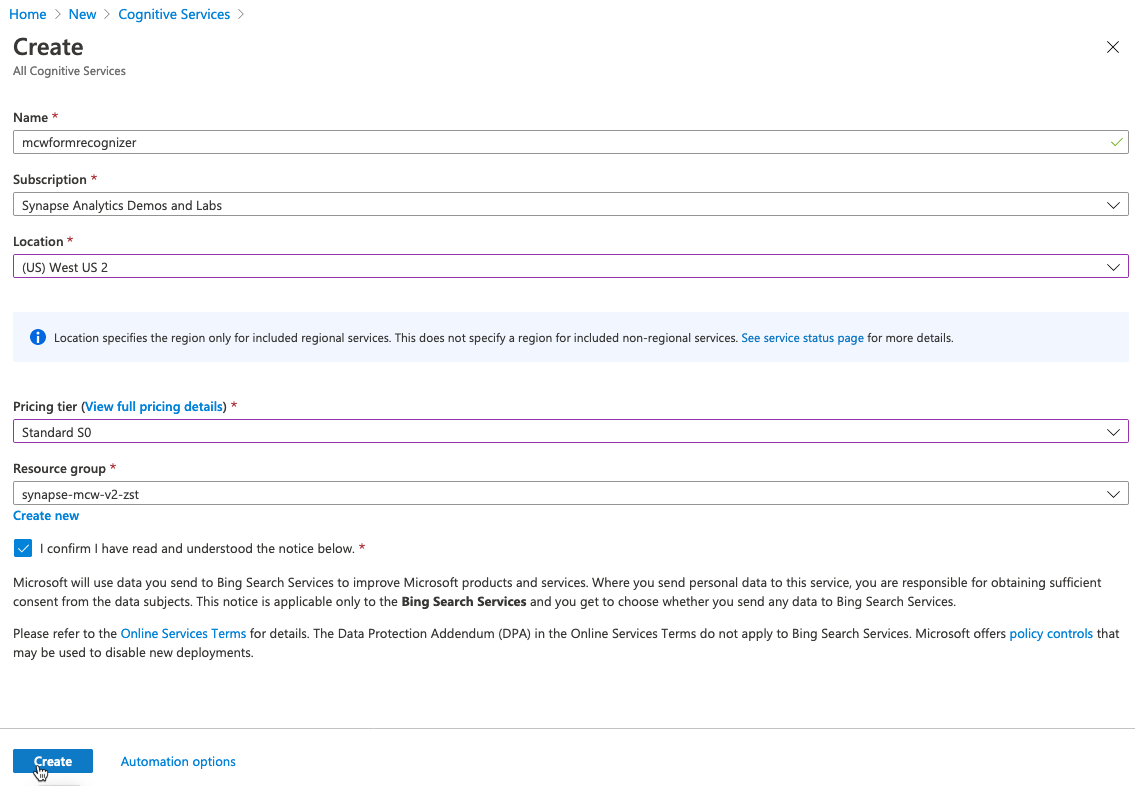
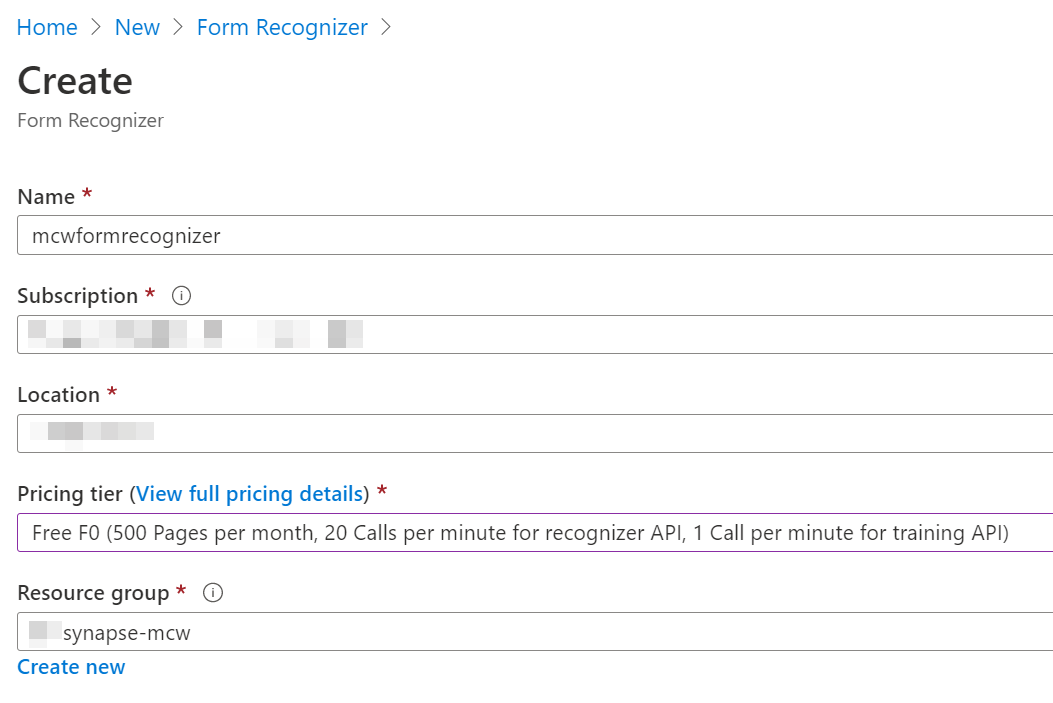
more work in progress

diff --git a/Hands-on lab/artifacts/pocformreader.py b/Hands-on lab/artifacts/pocformreader.py
@@ -4,9 +4,9 @@ import time
 from requests import get, post
 
 # Endpoint URL
-endpoint = r"https://wwiformsreader.cognitiveservices.azure.com/"
+endpoint = r"https://mcwformrecognizer.cognitiveservices.azure.com/"
 post_url = endpoint + r"/formrecognizer/v2.0/custom/models"
-source = r"https://mcwsynapseforms.blob.core.windows.net/invoices?sv=2019-10-10&ss=b&srt=co&sp=rl&se=2021-01-01T06:25:50Z&st=2020-06-23T21:25:50Z&spr=https&sig=6ksjolmm3XokVca3aiQ9tVHhZXySratGKB9dWxoT2ng%3D"
+source = r"https://asastorecep321.blob.core.windows.net/?sv=2019-12-12&ss=bfqt&srt=sco&sp=rwdlacupx&se=2020-08-09T02:35:49Z&st=2020-07-29T18:35:49Z&spr=https&sig=QrLduUGU0NFfnkmoNJu2Gs7dZ0Pr0M56VWygUHkrX3I%3D"
 prefix = "Train"
 includeSubFolders = False
 useLabelFile = False
@@ -14,7 +14,7 @@ useLabelFile = False
 headers = {
     # Request headers
     'Content-Type': 'application/json',
-    'Ocp-Apim-Subscription-Key': '8a5370dee48a42038bcd6dfdca49642b',
+    'Ocp-Apim-Subscription-Key': 'bc0c8f4327e64124862d915d9187d277',
 }
 
 body =     {

diff --git a/Hands-on lab/HOL step-by step - Azure Synapse Analytics and AI.md b/Hands-on lab/HOL step-by step - Azure Synapse Analytics and AI.md
@@ -51,7 +51,7 @@ Microsoft and the trademarks listed at <https://www.microsoft.com/en-us/legal/in
     - [Task 2: Query JSON data](#task-2-query-json-data)
   - [Exercise 5: Synapse Pipelines & Cognitive Search](#exercise-5-synapse-pipelines--cognitive-search)
     - [Task 1: Create the invoice storage container](#task-1-create-the-invoice-storage-container)
-    - [Task 2: Create and train Azure Forms recognizer model and Cognitive Search](#task-2-create-and-train-azure-forms-recognizer-model-and-cognitive-search)
+    - [Task 2: Create and train an Azure Forms recognizer model and Cognitive Search](#task-2-create-and-train-an-azure-forms-recognizer-model-and-cognitive-search)
     - [Task 3: Configure a skillset with Form Recognizer](#task-3-configure-a-skillset-with-form-recognizer)
     - [Task 4: Create the Synapse Pipeline](#task-4-create-the-synapse-pipeline)
   - [Exercise 6: Security](#exercise-6-security)
@@ -907,13 +907,13 @@ When you query Parquet files using Synapse SQL Serverless, you can explore the d
     from pyspark.sql.types import *
     from pyspark.sql.functions import *
 
-    profitByDateProduct = (data_path.groupBy("TransactionDate","ProductId")
-        .agg(
-            round(sum("ProfitAmount",2).alias("(sum)Profit"),
-            round(avg("ProfitAmount",2).alias("(avg)Profit"),
-            round(avg("Quantity"), 4).alias("(avg)Quantity"),
-            sum("Quantity").alias("(sum)Quantity"))
-        .orderBy("TransactionDate", "ProductId"))
+    profitByDateProduct = (data_path.groupBy("TransactionDate", "ProductId")
+    .agg(
+    round(sum("ProfitAmount"),2).alias("(sum)Profit"),
+    round(avg("ProfitAmount"),2).alias("(avg)Profit"),
+    sum("Quantity").alias("(sum)Quantity")
+    ).orderBy("TransactionDate", "ProductId")
+    )
     profitByDateProduct.show(100)
     ```
 
@@ -1086,15 +1086,15 @@ In this exercise you will create a Synapse Pipeline that will orchestrate updati
 
     ![The SAS form is shown with the shared access signature blob service SAS URL highlighted.](media/ex5-task1a-013.png "The SAS URL")
 
-### Task 2: Create and train Azure Forms recognizer model and Cognitive Search
+### Task 2: Create and train an Azure Forms recognizer model and Cognitive Search
 
-1. Browse to your Azure Portal, select **+Create a resource**, then search for and select **Cognitive Services** from the search results.
+1. Browse to your Azure Portal homepage, select **+ Create a resource**, then search for and select **Form Recognizer** from the search results.
 
-    ![The New resource screen is shown with Cognitive Services entered into the search text boxes and selected from the search results.](media/ex5-task2a-01.png "New resource search form")
+    ![The New resource screen is shown with Form Recognizer entered into the search text boxes and selected from the search results.](media/ex5-task2a-01.png "New resource search form")
 
 2. Select **Create**.
 
-    ![The Cognitive Services overview form is displayed with the Create button highlighted.](media/ex5-task2a-02.png "The Cognitive Services overview form")
+    ![The Form Recognizer overview screen is displayed with the Create button highlighted.](media/ex5-task2a-02.png "The Form Recognizer overview form")
 
 3. Enter the following configuration settings, then select **Create**:
 
@@ -1106,7 +1106,7 @@ In this exercise you will create a Synapse Pipeline that will orchestrate updati
     | Pricing | Select **Free F0**. |
     | Confirmation checkbox | Checked. |
   
-    ![The Cognitive Services configuration screen is displayed populated with the preceding values.](media/ex5-task2a-03.png "Cognitive services configuration screen")
+    ![The Form Recognizer configuration screen is displayed populated with the preceding values.](media/ex5-task2a-03.png "Form Recognizer configuration screen")
 
 4. Wait for the service to provision then navigate to the resource.
 
@@ -1118,7 +1118,7 @@ In this exercise you will create a Synapse Pipeline that will orchestrate updati
 
     ![The Keys and Endpoint screen is shown with KEY 1 and ENDPOINT values highlighted.](media/ex5-task2a-05.png "The Keys and Endpoint screen")
 
-7. Browse to your Azure Portal homepage, select **+Create a new resource**, then search for and create a new instance of **Azure Cognitive Search**.
+7. Browse to your Azure Portal homepage, select **+ Create a new resource**, then search for and create a new instance of **Azure Cognitive Search**.
 
     ![The Azure Cognitive Search overview screen is displayed.](media/ex5-task1-006.png "Azure Cognititve Search Overview screen")
 
@@ -1136,9 +1136,9 @@ In this exercise you will create a Synapse Pipeline that will orchestrate updati
 
 12. Open Visual Studio Code.
 
-13. Open the file **/artifacts/pocofrmreader.py**.
+13. From the **File** menu, select **Open file** then choose to open **Hands-on lab/artifacts/pocformreader.py**.
 
-14. Update Lines 7, 9, and 17 with the appropriate values indicated below:
+14. Update Lines 7, 9, and 13 with the appropriate values indicated below:
 
     - Line 7: The endpoint of Azure Cognitive Services.
 
@@ -1146,7 +1146,7 @@ In this exercise you will create a Synapse Pipeline that will orchestrate updati
 
     - Line 13: The key for your Azure Cognitive Service endpoint.
 
-    ![The source code listing of pocofrmreader.py is displayed with the lines mentioned above highlighted.](media/ex5-task2a-06.png "The source listing of pocofrmreader.py")
+    ![The source code listing of pocformreader.py is displayed with the lines mentioned above highlighted.](media/ex5-task2a-06.png "The source listing of pocofrmreader.py")
 
 15. Save the file.
 
@@ -1161,6 +1161,8 @@ In this exercise you will create a Synapse Pipeline that will orchestrate updati
 18. When it completes, you should see an output similar to what is seen in the screenshot below. The output should also contain a modelID. Copy and paste this into your text file to use later
 
     ![A sample output of the python script is shown with a modelID value highlighted.](media/ex5-task2a-09.png "Visual Studio Code output window")
+
+    >**Note**: If you receive an error stating the **requests** module is not found, from the terminal window in Visual Studio code, execute: **pip install requests**
 
 ### Task 3: Configure a skillset with Form Recognizer
 
@@ -1299,117 +1301,81 @@ In this exercise you will create a Synapse Pipeline that will orchestrate updati
 
    ![The top toolbar menu is displayed with the Discard all button highlighted.](media/toptoolbar_discardall.png "Discard changes")
 
-6. Select the **Manage** hub from the left menu.
-
-    ![The left menu is displayed with the Manage item selected.](media/ex5-task4-002.png "The Manage Hub")
-
-7. In the next pane, select **Linked services** from beneath the **External connections** header.
-
-    ![The next navigation pane is shown with the Linked services item highlighted.](media/ex5-task4-003.png "Linked services link")
-
-8. Select **+New** to create a new linked service to the invoice blob storage service.
-
-    ![The New linked service screen is shown with the +New button is highlighted in the toolbar.](media/ex5-task4-004.png "Creating a new Linked service")
-
-9. In the **New linked service** blade, select **Azure Blob Storage** then **Continue**.
-
-    ![The new linked service screen is displayed with the Azure Blob Storage tile selected.](media/ex5-task4-005.png "New linked service type selection")
-
-10. Configure the linked service by providing a name that makes sense, such as invoices. Select the Azure subscription and the invoices Storage account name. Leave everything else set to its default. Select **Create**.
-
-    ![The Azure Blob Storage linked service configuration is shown and populated as indicated above.](media/ex5-task4-006.png "Azure Blob Storage linked service configuration form")
-
-11. Select **+New** to create another linked service.
-
-    ![The +New button is shown on the Linked service page.](media/ex5-task4-004.png "Add a new linked service")
-
-12. In the **New linked service** blade, select **Azure Synapse Analytics (formerly SQL DW)** and select **Continue**.
-
-    ![The Azure Synapse Analytics (formerly SQL DW) tile is selected from a listing of linked serivce types.](media/ex5-task4-007.png "New Azure Synapse Analytics linked service")
-
-13. Configure the linked service by providing a name that makes sense, such as **SQLDatabase**. Select the Azure subscription, server name, database name. Switch the Authentication type to managed identity. Leave everything else with their defaults. Select **Create**.
-
-    ![The Azure Synapse Analytics linked service configuration form is shown populated with the preceding values.](media/ex5-task4-008.png "New Azure Synapse linked service configuration form")
-
-14. You should see the two new linked services now.
-
-    ![Two new linked services are now shown in the linked services list.](media/ex5-task4-010.png "The linked services list")
-
-15. Select the **Orchestrate** hub from the left navigation.
+6. Select the **Orchestrate** hub from the left navigation.
 
     ![The Orchestrate hub is selected from the left navigation.](media/ex5-task4-012.png "The Orchestrate hub")
 
-16. In the Orchestrate blade, expand the **+** button and then select **Pipeline** to create a new pipeline.
+7. In the Orchestrate blade, expand the **+** button and then select **Pipeline** to create a new pipeline.
 
     ![The + button is expanded with the pipeline option selected.](media/ex5-task4-013.png "Create a new pipeline")
 
-17. Name your pipeline **InvoiceProcessing**.
+8. Name your pipeline **InvoiceProcessing**.
 
     ![The new pipeline properties are shown with InvoiceProcessing entered as the name of the pipeline.](media/ex5-task4-014.png "Naming the pipeline")
 
-18. On the pipeline taskbar, select **Add trigger** then choose **New/Edit** to create an event to start the pipeline.
+9. On the pipeline taskbar, select **Add trigger** then choose **New/Edit** to create an event to start the pipeline.
 
     ![The Add trigger button is expanded with the New/Edit option selected.](media/ex5-task4-015.png "New Trigger menu item")
 
-19. On the Add triggers form, select  **+New** from the the **Choose trigger** dropdown.
+10. On the Add triggers form, select  **+New** from the the **Choose trigger** dropdown.
 
     ![The Add triggers form is displayed with the Choose trigger dropdown expanded and the +New item is selected.](media/ex5-task4-016.png "Choosing to create a new trigger")
 
-20. For this exercise, we're going to do a schedule. However, in the future you'll also be able to use an event-based trigger that would fire off new JSON files being added to blob storage. Set the trigger to start every 5 minutes, then select **OK**.
+11. For this exercise, we're going to do a schedule. However, in the future you'll also be able to use an event-based trigger that would fire off new JSON files being added to blob storage. Set the trigger to start every 5 minutes, then select **OK**.
 
     ![The new trigger form is displayed with the trigger set to start every 5 minutes.](media/ex5-task4-017.png "New trigger form")
 
-21. Select **OK** on the Run Parameters form, nothing needs to be done here.
+12. Select **OK** on the Run Parameters form, nothing needs to be done here.
 
-22. Next we need to add a Data Flow to the pipeline. Under Activities, expand **Move & transform** then drag and drop a **Data flow** onto the designer canvas.
+13. Next we need to add a Data Flow to the pipeline. Under Activities, expand **Move & transform** then drag and drop a **Data flow** onto the designer canvas.
 
     ![The pipeline designer is shown with an indicator of a drag and drop operation of the data flow activity.](media/ex5-task4-018.png "The Data flow activity")
 
-23. On the **Adding data flow** form, select **Create new data flow** and name it **NewInvoicesProcessing**.
+14. On the **Adding data flow** form, select **Create new data flow** and name it **NewInvoicesProcessing**.
 
     ![The Adding data flow form is displayed populated with the preceding values.](media/ex5-task4-019.png)
 
-24. On the **NewInvoicesProcessing** data flow design canvas. Select the **Add source** box. Select the **invoices** linked service as the source for our data flow and select **Add Source**.
+15. On the **NewInvoicesProcessing** data flow design canvas. Select the **Add source** box. Select the **invoices** linked service as the source for our data flow and select **Add Source**.
 
     ![The NewInvoicesProcessing designer is shown with the Add source box selected.](media/ex5-task4-020.png "The NewInvoicesProcessing designer")
 
-25. Name the output stream **jsonInvoice**, leave the source type as **Dataset**, and keep all the remaining options set to their defaults. Select **+New** next to the Dataset field.
+16. Name the output stream **jsonInvoice**, leave the source type as **Dataset**, and keep all the remaining options set to their defaults. Select **+New** next to the Dataset field.
 
     ![The Source settings tab is displayed populated with the name of jsonInvoice and the +New button next to the Dataset field is selected.](media/ex5-task4-021.png "Source Settings")
 
-26. In the **New dataset blade**, select **Azure Blob Storage**.
+17. In the **New dataset blade**, select **Azure Blob Storage**.
 
     ![The New dataset blade is displayed with Azure Blob Storage selected.](media/ex5-task4-022.png "Azure Blob Storage dataset")
 
-27. On the **Select format** blade, select **Json** then select **Continue**.
+18. On the **Select format** blade, select **Json** then select **Continue**.
 
     ![The select format screen is displayed with Json selected as the type.](media/ex5-task4-023.png "Select format form")
 
-28. On the **Set properties** screen, name the dataset **InvoicesJson** then for the linked service field, choose the Azure Storage linked service that you created earlier.
+19. On the **Set properties** screen, name the dataset **InvoicesJson** then for the linked service field, choose the Azure Storage linked service that you created earlier.
 
     ![A portion of the Set properties form is displayed populated with the above values.](media/ex5-task4-024.png "Dataset Set properties form")
 
-29. For the file path field, enter **invoices-json** and set the import schema field to **From sample file**.
+20. For the file path field, enter **invoices-json** and set the import schema field to **From sample file**.
 
     ![The set properties form is displayed with the file path and import schema fields populated as described.](media/ex5-task4-025.png "Data set properties form")
 
-30. Select **Browse** and select the file located at **/environment-setup/synapse/sampleformrecognizer.json** and select **OK**.
+21. Select **Browse** and select the file located at **/environment-setup/synapse/sampleformrecognizer.json** and select **OK**.
 
     ![The Set properties form is displayed with the sampleformrecognizer.json selected as the selected file.](media/ex5-task4-026.png "Data set properties form")
 
-31. Select the **Source options** tab on the bottom pane. Add \*/\* to the Wildcard paths field.
+22. Select the **Source options** tab on the bottom pane. Add \*/\* to the Wildcard paths field.
 
     ![The Source options tab is shown with the Wildcard paths field populated as specified.](media/ex5-task4-048.png "Source options tab")
 
-32. On the Data flow designer surface, select **+** to the lower right of the source activity to add another step in your data flow.
+23. On the Data flow designer surface, select **+** to the lower right of the source activity to add another step in your data flow.
 
     ![The + button is highlighted to the lower right of the source activity.](media/ex5-task4-028.png "Adding a data flow step")
 
-33. From the list of options, select **Derived column** from beneath the **Schema modifier** section.
+24. From the list of options, select **Derived column** from beneath the **Schema modifier** section.
 
     ![With the + button expanded, Derived column is selected from the list of options.](media/ex5-task4-029.png "Adding a derived column activity")
 
-34. On the **Derived column's settings** tab, provide the output stream name of **RemoveCharFromStrings**. Then for the Columns field, add 3 columns and configure them as follows:
+25. On the **Derived column's settings** tab, provide the output stream name of **RemoveCharFromStrings**. Then for the Columns field, add 3 columns and configure them as follows:
 
     | Column | Expression |
     |--------|------------|
@@ -1419,39 +1385,39 @@ In this exercise you will create a Synapse Pipeline that will orchestrate updati
 
      ![The Derived column's settings tab is shown with the fields populated as described.](media/ex5-task4-030.png "The derived column's settings tab")
 
-35. Return to the Data flow designer, select the **+** next to the derived column activity to add another step to your data flow.
+26. Return to the Data flow designer, select the **+** next to the derived column activity to add another step to your data flow.
 
-36. This time select the **Alter Row** from beneath the **Row modifier** section.
+27. This time select the **Alter Row** from beneath the **Row modifier** section.
 
     ![In the Row modifier section, the Alter Row option is selected.](media/ex5-task4-031.png "The Alter row activity")
 
-37. On the **Alter row settings** tab on the bottom pane, Name the Output stream **AlterTransactionID**, and leave the incoming stream set to the default value. Change **Alter row conditions** field to **"Upsert If** and then set the expression to **notEquals(transactionid,"")**
+28. On the **Alter row settings** tab on the bottom pane, Name the Output stream **AlterTransactionID**, and leave the incoming stream set to the default value. Change **Alter row conditions** field to **"Upsert If** and then set the expression to **notEquals(transactionid,"")**
 
     ![The Alter row settings tab is shown populated with the values described above.](media/ex5-task4-032.png "The Alter row settings tab")
 
-38. Return to the Data flow designer, select the **+** to the lower right of the **Alter Row** activity to add another step into your data flow.
+29. Return to the Data flow designer, select the **+** to the lower right of the **Alter Row** activity to add another step into your data flow.
 
-39. Within the **Destination** section, select **Sink**.
+30. Within the **Destination** section, select **Sink**.
 
     ![In the activity listing, the sink option is selected from within the Destination section.](media/ex5-task4-033.png "The Sink Activity")
 
-40. On the bottom pane, with the **Sink** tab selected, name the Output stream name **SQLDatabase** and leave everything else set to the default values. Next to the **Dataset** field, select **+New** to add a new Dataset.
+31. On the bottom pane, with the **Sink** tab selected, name the Output stream name **SQLDatabase** and leave everything else set to the default values. Next to the **Dataset** field, select **+New** to add a new Dataset.
 
     ![The sink tab is shown with the output stream name set to SQLDatabase and the +New button selected next to the Dataset field.](media/ex5-task4-034.png "The Sink tab")
 
-41. On the **New dataset** blade, select **Azure Synapse Analytics (formerly SQL DW)** and select **Continue**.
+32. On the **New dataset** blade, select **Azure Synapse Analytics (formerly SQL DW)** and select **Continue**.
 
     ![Azure Synapse Analytics is selected in a list of dataset types.](media/ex5-task4-035.png "Selecting the Azure Synapse Analytics dataset type")
 
-42. Set the name of the Dataset to **InvoiceTable** and choose the database linked Service we created earlier. Choose **Select from existing table** and choose the **dbo.Invoices** table. If you don't see it in the list of your table names, select the **Refresh** button and it should show up. Select **OK**.
+33. Set the name of the Dataset to **InvoiceTable** and choose the database linked Service we created earlier. Choose **Select from existing table** and choose the **dbo.Invoices** table. If you don't see it in the list of your table names, select the **Refresh** button and it should show up. Select **OK**.
 
     ![The Dataset Set properties form is displayed populated as described.](media/ex5-task4-036.png "Set properties form")
 
-43. In the bottom pane, with the Sink activity selected on the data flow designer, select the **Settings** tab and check the box to **Allow upsert**. Set the **Key columns** field to **transactionid**.
+34. In the bottom pane, with the Sink activity selected on the data flow designer, select the **Settings** tab and check the box to **Allow upsert**. Set the **Key columns** field to **transactionid**.
 
     ![The Settings tab of the Sink activity is shown and is populated as described.](media/ex5-task4-037.png "Sink Settings tab")
 
-44. Select the **Mapping** tab, disable the **Auto mapping** setting and configure the mappings between the json file and the database. Select **+ Add mapping** then choose **Fixed mapping** to add the following mappings:
+35. Select the **Mapping** tab, disable the **Auto mapping** setting and configure the mappings between the json file and the database. Select **+ Add mapping** then choose **Fixed mapping** to add the following mappings:
 
     | Input column | Output column |
     |--------------|---------------|
@@ -1464,41 +1430,41 @@ In this exercise you will create a Synapse Pipeline that will orchestrate updati
 
     ![The Mapping tab is displayed with Auto Mapping disabled and the column mappings from the table above are defined.](media/ex5-task4-038.png "The Mapping tab")
 
-45. Return to the **InvoiceProcessing** pipeline by selecting its tab at the top of the workspace.
+36. Return to the **InvoiceProcessing** pipeline by selecting its tab at the top of the workspace.
 
     ![The InvoiceProcessing tab is selected at the top of the workspace.](media/ex5-task4-039.png "The InvoiceProcessing pipeline tab")
 
-46. Select the data flow activity on the pipeline designer surface, then in the bottom pane, select the **Settings** tab.
+37. Select the data flow activity on the pipeline designer surface, then in the bottom pane, select the **Settings** tab.
 
     ![The data flow activity Settings tab is displayed.](media/ex5-task4-040.png "The Settings tab")
 
-47. Under the **PolyBase** settings, set the **Staging linked service** to the **invoices** linked service. Enter **invoices-staging** as the **Storage staging folder**.
+38. Under the **PolyBase** settings, set the **Staging linked service** to the **invoices** linked service. Enter **invoices-staging** as the **Storage staging folder**.
 
     ![The data flow activity Settings tab is displayed with its form populated as indicated above.](media/ex5-task4-041.png "The Settings tab")
 
-48. Select **Publish All** from the top toolbar.
+39. Select **Publish All** from the top toolbar.
 
     ![The Publish All button is selected from the top toolbar.](media/ex5-task4-042.png "The Publish all button")
 
-49. Select **Publish**.
+40. Select **Publish**.
 
-50. Within a few moments, you should see a notification that Publishing completed.
+41. Within a few moments, you should see a notification that Publishing completed.
 
     ![The Publishing completed notification is shown.](media/ex5-task4-043.png "The Publishing Completed notification")
 
-51. From the left menu, select the **Monitor** hub, then ensure the **Pipeline runs** option is selected from the hub menu.
+42. From the left menu, select the **Monitor** hub, then ensure the **Pipeline runs** option is selected from the hub menu.
 
     ![The Monitor hub is selected from the left menu.](media/ex5-task4-044.png "The Monitor Hub menu option")
 
-52. Within 5 minutes, you should see the **InvoiceProcessing** pipeline begin processing. You may need to refresh this list to see it appear, a refresh button is located in the toolbar.
+43. Within 5 minutes, you should see the **InvoiceProcessing** pipeline begin processing. You may need to refresh this list to see it appear, a refresh button is located in the toolbar.
 
     ![On the Pipeline runs list, the InvoiceProcessing pipeline is shown as in-progress.](media/ex5-task4-045.png "The Pipeline runs list")
 
-53. After about 3 or 4 minutes it will complete. You may need to refresh the list to see the completed pipeline.
+44. After about 3 or 4 minutes it will complete. You may need to refresh the list to see the completed pipeline.
 
     ![The Pipeline runs list is displayed with the InvoiceProcessing pipeline shown as succeeded.](media/ex5-task4-046.png "The pipeline runs list")
 
-54. From the left menu, select the **Develop** hub, then expand the **+** button an choose **SQL Script**. Ensure the proper database is selected, then run the following query to verify the data from the two test invoices.
+45. From the left menu, select the **Develop** hub, then expand the **+** button an choose **SQL Script**. Ensure the proper database is selected, then run the following query to verify the data from the two test invoices.
 
     ```SQL
     SELECT * FROM dbo.Invoices

diff --git a/Hands-on lab/Before the HOL - Azure Synapse Analytics and AI.md b/Hands-on lab/Before the HOL - Azure Synapse Analytics and AI.md
@@ -44,6 +44,16 @@ Microsoft and the trademarks listed at <https://www.microsoft.com/en-us/legal/in
 
 1. An Azure Account with the ability to create an Azure Synapse Workspace.
 
+2. [Python v.3.7 or newer](https://www.python.org/downloads/)
+
+3. [PIP](https://pip.pypa.io/en/stable/installing/#do-i-need-to-install-pip)
+
+4. [Visual Studio Code](https://code.visualstudio.com/)
+
+5. [Python Extension for Visual Studio Code](https://marketplace.visualstudio.com/items?itemName=ms-python.python)
+
+6. [Postman](https://www.postman.com/downloads/)
+
 ## Before the hands-on lab
 
 **Duration**: 20 minutes
